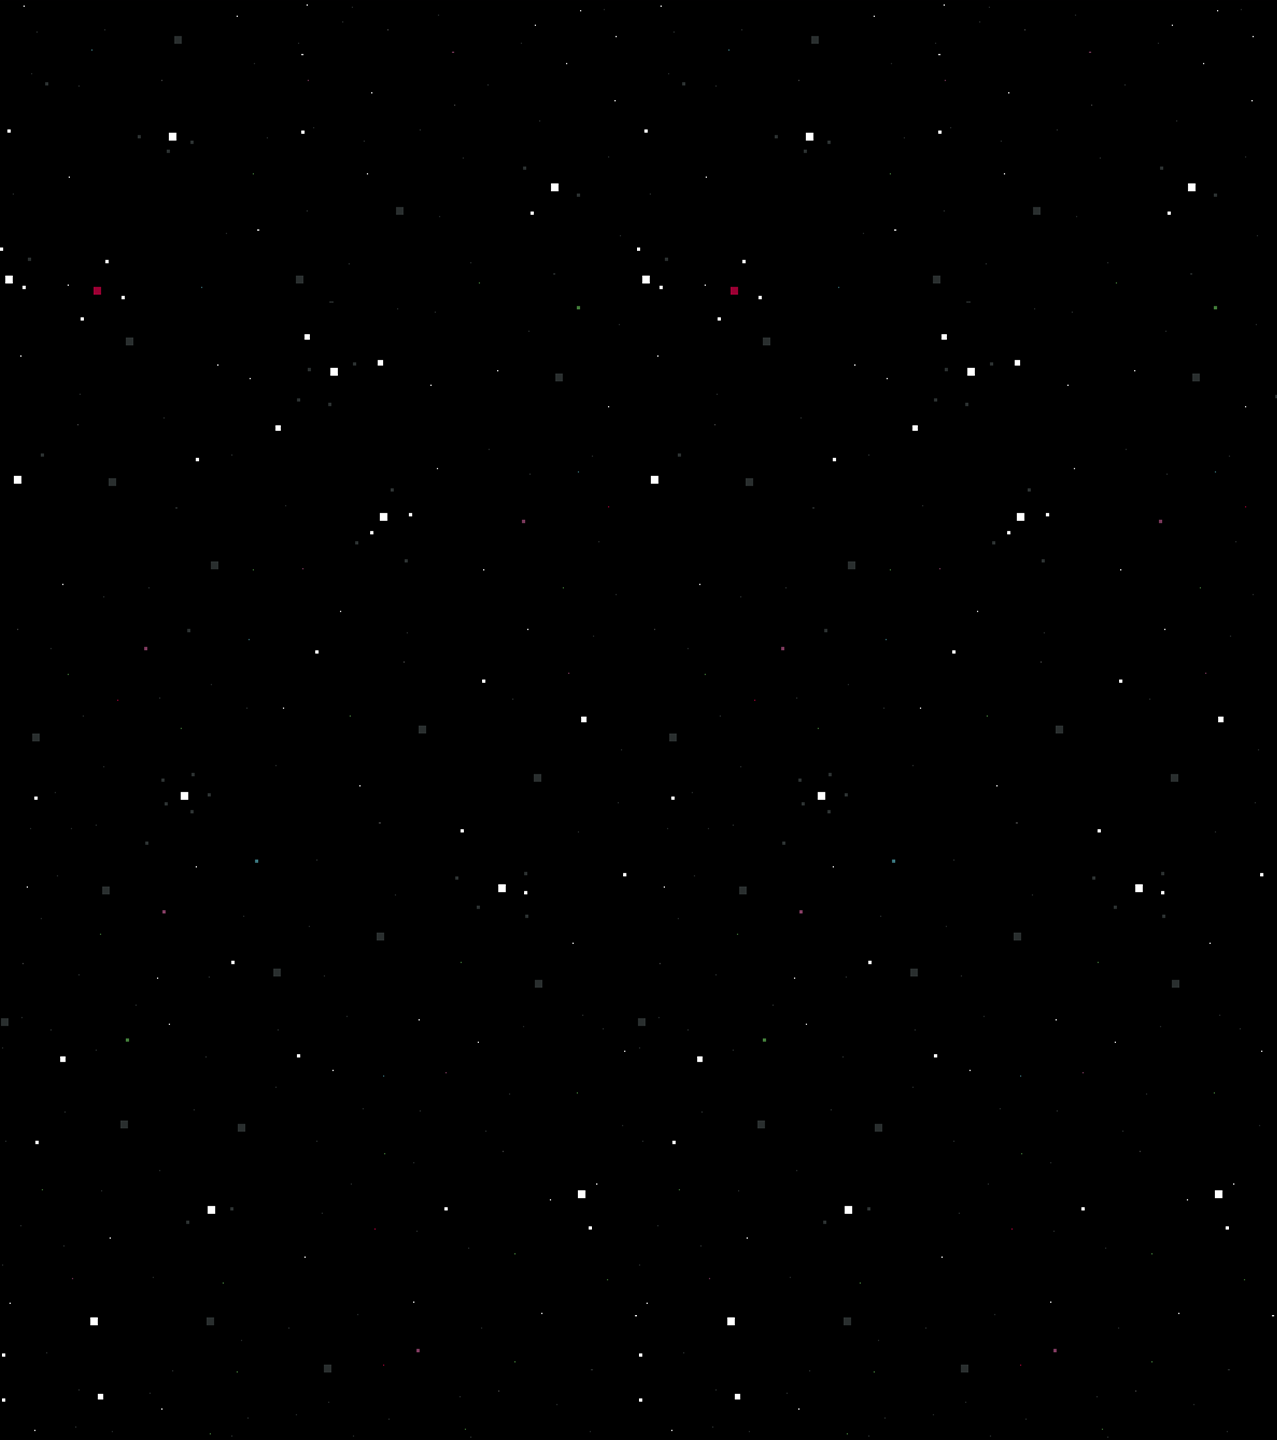
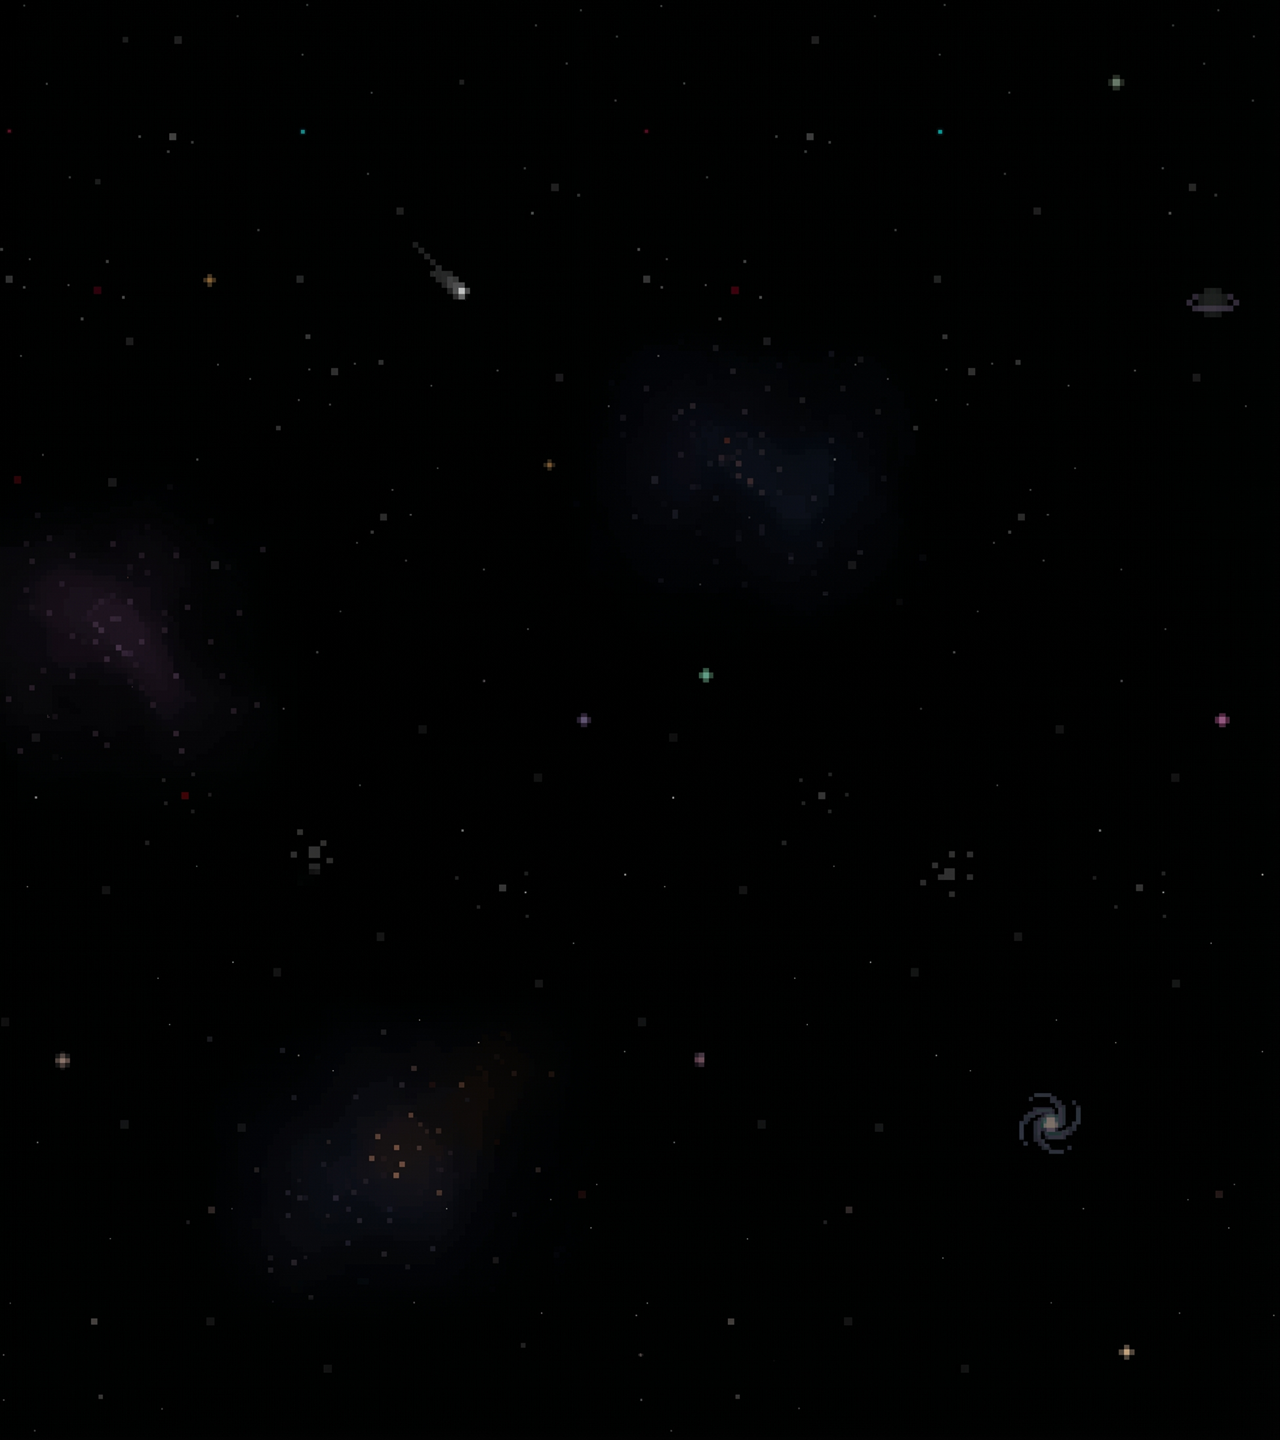
Enhanced Main Menu and Added Loading Screen Menu

diff --git a/src/com/zainic/zainiship/ui/LoadingMenu.java b/src/com/zainic/zainiship/ui/LoadingMenu.java
@@ -1,0 +1,162 @@
+package com.zainic.zainiship.ui;
+
+import java.awt.Graphics;
+import java.awt.image.BufferedImage;
+import java.awt.image.DataBufferInt;
+import java.awt.AlphaComposite;
+import java.awt.Graphics2D;
+import java.io.IOException;
+
+import javax.imageio.ImageIO;
+
+public class LoadingMenu {
+
+	private int designWidth;
+	private int designHeight;
+	private int time;
+	private int backgroundWidth;
+	private int backgroundHeight;
+	private int xOffset;
+	private int yOffset;
+	private int[] pixels, background;
+	private float titleAlpha, barAlpha, barProgress;
+	private int yTitleOffset;
+	private final BufferedImage image;
+
+	private final BufferedImage backgroundImage = loadImage("/menu/loadingmenu/loadingmenu_background.png");
+	private final BufferedImage titleImage = loadImage("/menu/loadingmenu/title.png");
+	private final BufferedImage unfilledloadingbarImage = loadImage("/menu/loadingmenu/unfilledloadingbar.png");
+	private final BufferedImage filledloadingbarImage = loadImage("/menu/loadingmenu/filledloadingbar.png");
+
+	public LoadingMenu(int width, int height) {
+		this.designWidth = width;
+		this.designHeight = height;
+		this.time = 0;
+		this.image = new BufferedImage(width, height, BufferedImage.TYPE_INT_RGB);
+		this.pixels = ((DataBufferInt) image.getRaster().getDataBuffer()).getData();
+		this.backgroundWidth = backgroundImage.getWidth();
+		this.backgroundHeight = backgroundImage.getHeight();
+		this.background = new int[backgroundWidth * backgroundHeight];
+		backgroundImage.getRGB(0, 0, backgroundWidth, backgroundHeight, background, 0, backgroundWidth);
+	}
+
+	public void update() {
+		this.time++;
+		this.xOffset = (int) ((Math.sin(this.time * 0.005) * (this.backgroundWidth - this.designWidth) / 2) + (this.backgroundWidth - this.designWidth) / 2);
+		this.yOffset = 0;
+		this.titleAlpha = Math.min(1.0f, this.time / 60.0f);
+		if (this.time > 60) {
+			this.yTitleOffset = (int) (- Math.min( 60, this.time - 60));
+		} else {
+			this.yTitleOffset = 0;
+		}
+		if (this.time > 120) {
+			this.barAlpha = Math.min(1.0f, (this.time - 120) / 30.0f);
+		} else {
+			this.barAlpha = 0.0f;
+		}
+		if (this.time > 150) {
+			this.barProgress = Math.min(1.0f, (this.time - 150) / 1000.0f);
+		}
+	}
+
+	public void render(Graphics g, int displayWidth, int displayHeight) {
+		// Render the background
+		renderBackground(this.xOffset, this.yOffset);
+		g.drawImage(this.image, 0, 0, displayWidth, displayHeight, null);
+
+		// Render the title with alpha transparency
+		int titleWidth = designWidth * 4 / 5;
+		int titleHeight = titleWidth * titleImage.getHeight() / titleImage.getWidth();
+		Graphics2D titleGraphics = (Graphics2D) g.create();
+		titleGraphics.setComposite(
+			AlphaComposite.getInstance(AlphaComposite.SRC_OVER, titleAlpha)
+		);
+		drawScaled(titleGraphics, titleImage, (designWidth - titleWidth) / 2, designHeight / 3 + yTitleOffset, titleWidth, titleHeight, displayWidth, displayHeight);
+		titleGraphics.dispose();
+
+		// Render the unfilled and filled loading bar with alpha transparency
+		int barWidth = designWidth * 4 / 5;
+		int barHeight = barWidth * unfilledloadingbarImage.getHeight() / unfilledloadingbarImage.getWidth();
+		Graphics2D barGraphics = (Graphics2D) g.create();
+		barGraphics.setComposite(
+			AlphaComposite.getInstance(AlphaComposite.SRC_OVER, barAlpha)
+		);
+		drawScaled(barGraphics, unfilledloadingbarImage, (designWidth - barWidth) / 2, designHeight * 4 / 7 , barWidth, barHeight, displayWidth, displayHeight);
+		drawScaledFromLeft(barGraphics, filledloadingbarImage, this.barProgress, (designWidth - barWidth) / 2, designHeight * 4 / 7 , barWidth, barHeight, displayWidth, displayHeight);
+		barGraphics.dispose();
+	}
+
+	private void drawScaled(Graphics g, BufferedImage image, int x, int y, int width, int height, int displayWidth, int displayHeight) {
+		g.drawImage(image, scaleX(x, displayWidth), scaleY(y, displayHeight), scaleX(width, displayWidth), scaleY(height, displayHeight), null);
+	}
+
+	// private int toDesignX(int value, int displayWidth) {
+	// 	return value * designWidth / displayWidth;
+	// }
+
+	// private int toDesignY(int value, int displayHeight) {
+	// 	return value * designHeight / displayHeight;
+	// }
+
+	private int scaleX(int value, int displayWidth) {
+		return value * displayWidth / designWidth;
+	}
+
+	private int scaleY(int value, int displayHeight) {
+		return value * displayHeight / designHeight;
+	}
+
+	private BufferedImage loadImage(String path) {
+		try {
+			return ImageIO.read(MainMenu.class.getResource(path));
+		} catch (IOException | IllegalArgumentException e) {
+			throw new IllegalStateException("Could not load menu asset: " + path, e);
+		}
+	}
+
+	private void drawScaledFromLeft(Graphics g, BufferedImage image, float progress, int x, int y, int width, int height, int displayWidth, int displayHeight) {
+
+		progress = Math.max(0.0f, Math.min(1.0f, progress));
+
+		int sourceRight = (int) (image.getWidth() * progress);
+		int destinationRight = x + (int) (width * progress);
+
+		if (sourceRight <= 0) return;
+
+		g.drawImage(
+			image,
+
+			scaleX(x, displayWidth),
+			scaleY(y, displayHeight),
+			scaleX(destinationRight, displayWidth),
+			scaleY(y + height, displayHeight),
+
+			0, 0,
+			sourceRight, image.getHeight(),
+
+			null
+		);
+	}
+
+	public int getTime() {
+		return this.time;
+	}
+
+	public void renderBackground(int xp, int yp) {
+		for (int y = 0; y < this.backgroundHeight; y++) {
+			int ya = y + yp;
+			for (int x = 0; x < this.backgroundWidth; x++) {
+				int xa = x + xp;
+				if (x < 0 || x >= this.designWidth || y < 0 || y >= this.designHeight) break;
+				if (xa < 0 || xa >= this.backgroundWidth) {
+					xa = Math.floorMod(xa, this.backgroundWidth);
+				}
+				if (ya < 0 || ya >= this.backgroundHeight) {
+					ya = Math.floorMod(ya, this.backgroundHeight);
+				}
+				this.pixels[x + y * this.designWidth] = this.background[xa + ya * this.backgroundWidth];
+			}
+		}
+	}
+}

diff --git a/src/com/zainic/zainiship/Main.java b/src/com/zainic/zainiship/Main.java
@@ -16,6 +16,7 @@ import com.zainic.zainiship.entity.mob.Player;
 import com.zainic.zainiship.graphics.Screen;
 import com.zainic.zainiship.level.Level;
 import com.zainic.zainiship.audio.Audio;
+import com.zainic.zainiship.ui.LoadingMenu;
 import com.zainic.zainiship.ui.MainMenu;
 
 public class Main extends Canvas implements Runnable{
@@ -31,8 +32,8 @@ public class Main extends Canvas implements Runnable{
 	private JFrame frame;
 	private boolean running = false;
 	private boolean pause = false;
-	private boolean inMainMenu = true;
-	private boolean enterWasDown = false;
+	private boolean inMainMenu = false;
+	private boolean inLoading = false;
 	private int pauseDelay = 10;
 	private int frames = 0;
 	private int ticks = 0;
@@ -46,11 +47,16 @@ public class Main extends Canvas implements Runnable{
 	private Player player;
 	private double xScroll = 0, yScroll = 0;
 	private MainMenu mainMenu;
+	private LoadingMenu loadingMenu;
 	
 	public Main() {
 		Dimension size = new Dimension(width*scale, height*scale);
 		this.setPreferredSize(size);
 		mainMenu = new MainMenu(width, height);
+		loadingMenu = new LoadingMenu(width, height);
+
+		// Start in loading menu
+		inLoading = true;
 		
 		frame = new JFrame();
 		screen = new Screen(width, height);
@@ -126,11 +132,19 @@ public class Main extends Canvas implements Runnable{
 	
 	public void tick() {
 		key.update();
+		if (inLoading) {
+			loadingMenu.update();
+			if (loadingMenu.getTime() > 2000) {
+				inLoading = false;
+				inMainMenu = true;
+			}
+			return;
+		}
 		if (inMainMenu) {
-			if ((key.enter && !enterWasDown) || mainMenu.isNewGameClicked(getWidth(), getHeight())) {
+			mainMenu.update();
+			if (mainMenu.isNewGameClicked(getWidth(), getHeight())) {
 				startGame();
 			}
-			enterWasDown = key.enter;
 			return;
 		}
 		if (key.pause && pauseDelay <= 0) {
@@ -153,6 +167,11 @@ public class Main extends Canvas implements Runnable{
 		BufferStrategy bs = this.getBufferStrategy();
 		if (bs == null) {
 			this.createBufferStrategy(3); //triple buffering strategy
+			return;
+		}
+
+		if (inLoading) {
+			renderLoadingMenu(bs);
 			return;
 		}
 		
@@ -200,6 +219,13 @@ public class Main extends Canvas implements Runnable{
 	private void renderMainMenu(BufferStrategy bs) {
 		Graphics g = bs.getDrawGraphics();
 		mainMenu.render(g, getWidth(), getHeight());
+		g.dispose();
+		bs.show();
+	}
+
+	private void renderLoadingMenu(BufferStrategy bs) {
+		Graphics g = bs.getDrawGraphics();
+		loadingMenu.render(g, getWidth(), getHeight());
 		g.dispose();
 		bs.show();
 	}

diff --git a/src/com/zainic/zainiship/ui/MainMenu.java b/src/com/zainic/zainiship/ui/MainMenu.java
@@ -9,7 +9,6 @@ import javax.imageio.ImageIO;
 
 import com.zainic.zainiship.input.Mouse;
 
-/** Renders the main menu and reports its available actions. */
 public class MainMenu {
 
 	private int designWidth;
@@ -35,8 +34,8 @@ public class MainMenu {
 		}
 	}
 
-	private final BufferedImage background = loadImage("/menu/mainmenu_background.jpg");
-	private final BufferedImage title = loadImage("/menu/title.png");
+	private final BufferedImage background = loadImage("/menu/mainmenu/mainmenu_background.png");
+	private final BufferedImage title = loadImage("/menu/mainmenu/title.png");
 	private final BufferedImage[] initialButtons = new BufferedImage[MenuButton.values().length];
 	private final BufferedImage[] hoveredButtons = new BufferedImage[MenuButton.values().length];
 	private final BufferedImage[] clickedButtons = new BufferedImage[MenuButton.values().length];
@@ -60,6 +59,10 @@ public class MainMenu {
 	public boolean isNewGameClicked(int displayWidth, int displayHeight) {
 		if (Mouse.getB() != Mouse.LMB) return false;
 		return isInsideButton(MenuButton.NEW_GAME.ordinal(), toDesignX(Mouse.getX(), displayWidth), toDesignY(Mouse.getY(), displayHeight));
+	}
+
+	public void update() {
+		// No dynamic elements to update in the main menu for now
 	}
 
 	public void render(Graphics g, int displayWidth, int displayHeight) {
